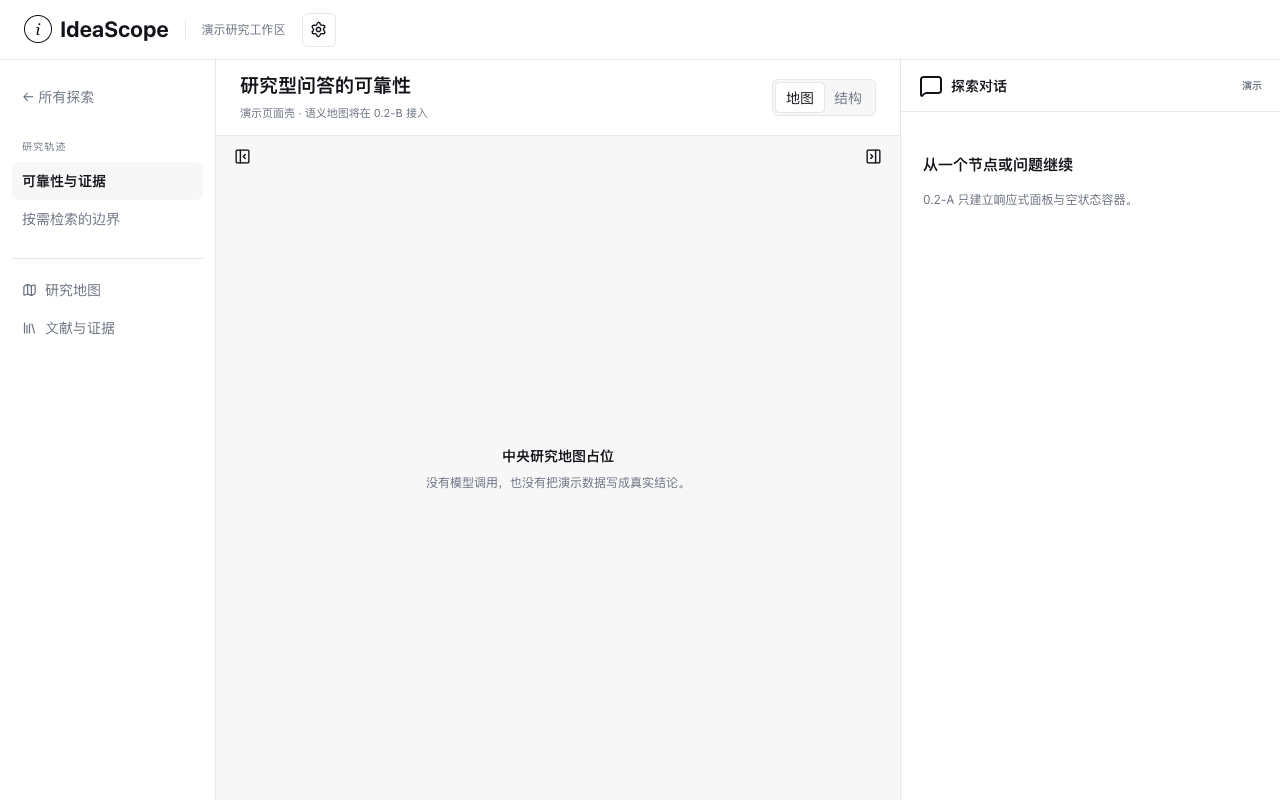
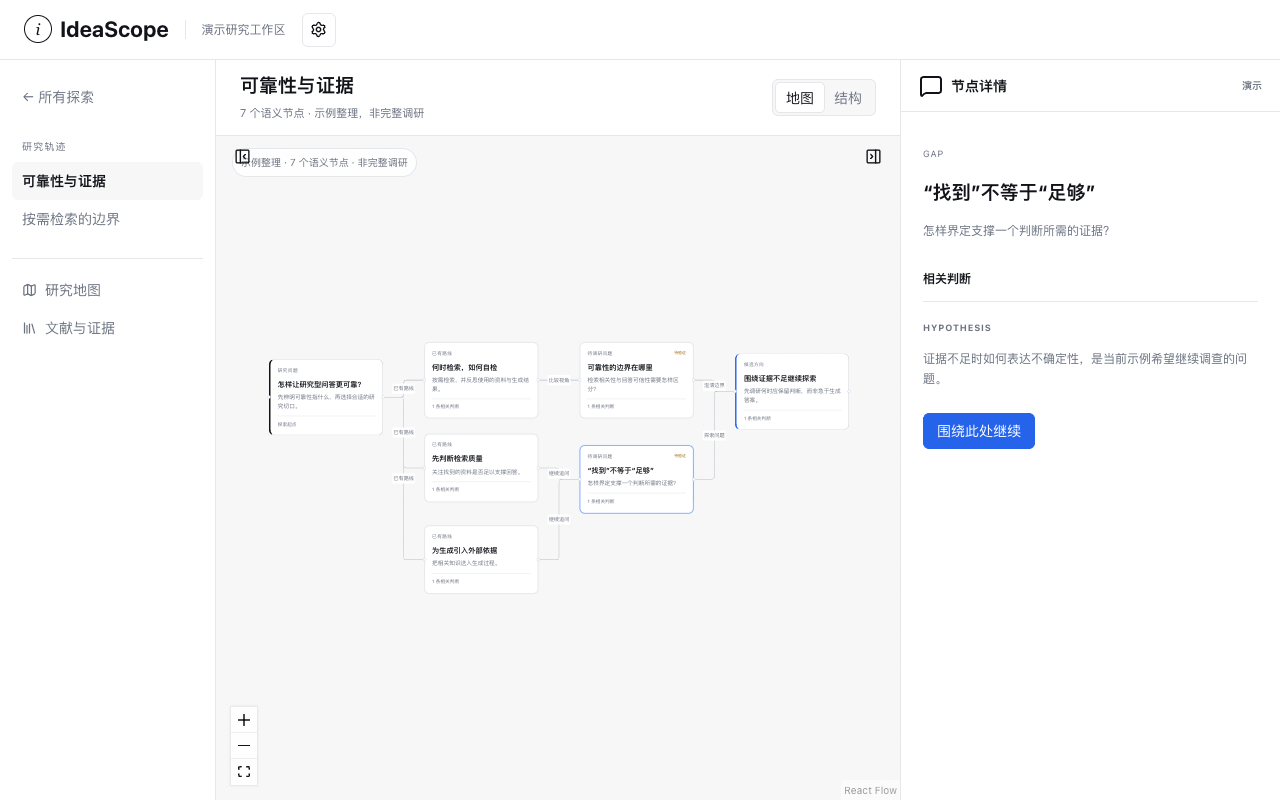
feat: implement v0.2.0-B semantic research map

diff --git a/src/pages/WorkspacePage.tsx b/src/pages/WorkspacePage.tsx
@@ -1,7 +1,30 @@
 import { Library, Map, MessageSquare, PanelLeftClose, PanelRightClose } from 'lucide-react';
-import { useState } from 'react';
+import { useMemo, useState } from 'react';
 import { Link } from 'react-router-dom';
+import type { GraphNode } from '../../contracts/domain';
+import { ResearchMap } from '../features/graph/ResearchMap';
+import { loadDemoWorkspace } from '../infrastructure/demo/workspace-demo';
 import { AppHeader } from '../shared/ui/AppHeader';
 import { Button, Tabs } from '../shared/ui';
 import styles from './WorkspacePage.module.css';
-export function WorkspacePage(){const[left,setLeft]=useState(true),[right,setRight]=useState(true),[view,setView]=useState('map');return <div className={styles.page}><AppHeader context="演示研究工作区"/><main className={`${styles.workspace} ${!left?styles.noLeft:''} ${!right?styles.noRight:''}`}><aside className={styles.left}><Link to="/">← 所有探索</Link><p>研究轨迹</p><button className={styles.active}>可靠性与证据</button><button>按需检索的边界</button><nav><button><Map/>研究地图</button><button><Library/>文献与证据</button></nav></aside><section className={styles.center}><header><div><h1>研究型问答的可靠性</h1><p>演示页面壳 · 语义地图将在 0.2-B 接入</p></div><Tabs label="中央视图" value={view} onChange={setView} items={[{id:'map',label:'地图'},{id:'list',label:'结构'}]}/></header><div className={styles.canvas}><strong>中央研究{view==='map'?'地图':'结构列表'}占位</strong><span>没有模型调用，也没有把演示数据写成真实结论。</span></div></section><aside className={styles.right}><header><MessageSquare/>探索对话 <span>演示</span></header><div><h2>从一个节点或问题继续</h2><p>0.2-A 只建立响应式面板与空状态容器。</p></div></aside><Button className={styles.lt} variant="ghost" aria-label="折叠左侧面板" onClick={()=>setLeft(!left)}><PanelLeftClose size={17}/></Button><Button className={styles.rt} variant="ghost" aria-label="折叠右侧面板" onClick={()=>setRight(!right)}><PanelRightClose size={17}/></Button></main></div>}
+
+export function WorkspacePage() {
+  const workspace = useMemo(() => loadDemoWorkspace(), []);
+  const [branchId, setBranchId] = useState(workspace.workspace.activeBranchId);
+  const [selectedId, setSelectedId] = useState<string | null>('g-sufficient');
+  const [left, setLeft] = useState(true);
+  const [right, setRight] = useState(true);
+  const [view, setView] = useState('map');
+  const branch = workspace.workspace.branches.find(item => item.id === branchId) ?? workspace.workspace.branches[0];
+  if (!branch) throw new Error('Demo workspace has no branch.');
+  const selected = branch.graph.nodes.find(node => node.id === selectedId) ?? null;
+  const claims = selected?.claimIds.map(id => branch.graph.claims.find(claim => claim.id === id)).filter(item => item !== undefined) ?? [];
+  function selectNode(node: GraphNode) { setSelectedId(node.id); setRight(true); }
+  function selectBranch(id: string) { setBranchId(id); const next = workspace.workspace.branches.find(item => item.id === id); setSelectedId(next?.focusNodeId ?? next?.graph.nodes[0]?.id ?? null); }
+  return <div className={styles.page}><AppHeader context="演示研究工作区"/><main className={`${styles.workspace} ${!left?styles.noLeft:''} ${!right?styles.noRight:''}`}>
+    <aside className={styles.left}><Link to="/">← 所有探索</Link><p>研究轨迹</p>{workspace.workspace.branches.map(item=><button key={item.id} className={item.id===branch.id?styles.active:''} onClick={()=>selectBranch(item.id)}>{item.title}</button>)}<nav><button><Map/>研究地图</button><button><Library/>文献与证据</button></nav></aside>
+    <section className={styles.center}><header><div><h1>{branch.title}</h1><p>{branch.graph.nodes.length} 个语义节点 · 示例整理，非完整调研</p></div><Tabs label="中央视图" value={view} onChange={setView} items={[{id:'map',label:'地图'},{id:'list',label:'结构'}]}/></header><div className={styles.canvas}>{view==='map'?<ResearchMap branch={branch} selectedId={selectedId} onSelect={selectNode}/>:<div className={styles.list}>{branch.graph.nodes.map(node=><button key={node.id} className={node.id===selectedId?styles.listSelected:''} onClick={()=>selectNode(node)}><span>{node.kind}</span><strong>{node.title}</strong><p>{node.summary}</p></button>)}</div>}</div></section>
+    <aside className={styles.right}><header><MessageSquare/>节点详情 <span>演示</span></header><div>{selected?<><small className={styles.kind}>{selected.kind}</small><h2>{selected.title}</h2><p>{selected.summary}</p><h3>相关判断</h3>{claims.length?claims.map(claim=><article key={claim.id}><b>{claim.epistemicStatus}</b><p>{claim.text}</p></article>):<p>这是研究问题，不是已经被文献证明的事实。</p>}<Button variant="primary">围绕此处继续</Button></>:<><h2>选择一个节点</h2><p>查看含义、判断与证据范围。</p></>}</div></aside>
+    <Button className={styles.lt} variant="ghost" aria-label="折叠左侧面板" onClick={()=>setLeft(!left)}><PanelLeftClose size={17}/></Button><Button className={styles.rt} variant="ghost" aria-label="折叠右侧面板" onClick={()=>setRight(!right)}><PanelRightClose size={17}/></Button>
+  </main></div>;
+}

diff --git a/src/pages/WorkspacePage.module.css b/src/pages/WorkspacePage.module.css
@@ -1,1 +1,1 @@
-.page{height:100vh;overflow:hidden}.workspace{height:calc(100vh - 60px);display:grid;grid-template-columns:216px minmax(0,1fr) 380px;position:relative}.left,.right{background:var(--surface);overflow:auto}.left{padding:18px 12px;border-right:1px solid var(--line)}.left a,.left button{width:100%;height:38px;padding:0 10px;border:0;border-radius:var(--radius-sm);display:flex;align-items:center;gap:8px;background:transparent;color:var(--muted);text-decoration:none;text-align:left}.left p{margin:22px 10px 7px;color:var(--muted);font-size:10px;letter-spacing:.12em}.left .active{background:var(--surface-subtle);color:var(--ink);font-weight:650}.left nav{margin-top:20px;padding-top:12px;border-top:1px solid var(--line)}.left svg{width:15px}.center{min-width:0;background:var(--surface-subtle)}.center>header{height:76px;padding:0 24px;border-bottom:1px solid var(--line);display:flex;align-items:center;justify-content:space-between;background:var(--surface)}.center h1{margin:0;font-size:19px}.center header p{margin:3px 0;color:var(--muted);font-size:11px}.canvas{height:calc(100% - 76px);display:grid;place-content:center;gap:6px;text-align:center;background-image:radial-gradient(var(--line) .7px,transparent .7px);background-size:20px 20px}.canvas span{color:var(--muted);font-size:12px}.right{border-left:1px solid var(--line)}.right>header{height:52px;padding:0 18px;border-bottom:1px solid var(--line);display:flex;align-items:center;gap:8px;font-weight:650}.right header span{margin-left:auto;color:var(--muted);font-size:10px}.right>div{padding:28px 22px}.right h2{font-size:15px}.right p{color:var(--muted);font-size:12px}.lt,.rt{position:absolute;z-index:5;top:82px}.lt{left:220px}.rt{right:384px}.noLeft{grid-template-columns:56px minmax(0,1fr) 380px}.noLeft .left>*{visibility:hidden}.noLeft .lt{left:60px}.noRight{grid-template-columns:216px minmax(0,1fr) 0}.noRight .right{display:none}.noRight .rt{right:4px}.noLeft.noRight{grid-template-columns:56px minmax(0,1fr) 0}@media(max-width:1199px){.workspace{grid-template-columns:56px minmax(0,1fr) 340px}.left>*{visibility:hidden}.lt{left:60px}.rt{right:344px}}@media(max-width:899px){.workspace{grid-template-columns:56px minmax(0,1fr)}.right{display:none}.rt{right:4px}}
+.page{height:100vh;overflow:hidden}.workspace{height:calc(100vh - 60px);display:grid;grid-template-columns:216px minmax(0,1fr) 380px;position:relative}.left,.right{background:var(--surface);overflow:auto}.left{padding:18px 12px;border-right:1px solid var(--line)}.left a,.left button{width:100%;height:38px;padding:0 10px;border:0;border-radius:var(--radius-sm);display:flex;align-items:center;gap:8px;background:transparent;color:var(--muted);text-decoration:none;text-align:left}.left p{margin:22px 10px 7px;color:var(--muted);font-size:10px;letter-spacing:.12em}.left .active{background:var(--surface-subtle);color:var(--ink);font-weight:650}.left nav{margin-top:20px;padding-top:12px;border-top:1px solid var(--line)}.left svg{width:15px}.center{min-width:0;background:var(--surface-subtle)}.center>header{height:76px;padding:0 24px;border-bottom:1px solid var(--line);display:flex;align-items:center;justify-content:space-between;background:var(--surface)}.center h1{margin:0;font-size:19px}.center header p{margin:3px 0;color:var(--muted);font-size:11px}.canvas{height:calc(100% - 76px);min-height:0}.right{border-left:1px solid var(--line)}.right>header{height:52px;padding:0 18px;border-bottom:1px solid var(--line);display:flex;align-items:center;gap:8px;font-weight:650}.right header span{margin-left:auto;color:var(--muted);font-size:10px}.right>div{padding:28px 22px}.right h2{font-size:19px;line-height:1.4}.right h3{margin-top:28px;font-size:12px}.right p{color:var(--muted);font-size:12px}.right article{padding:12px 0;border-top:1px solid var(--line)}.right article b,.kind{color:var(--muted);font-size:9px;text-transform:uppercase;letter-spacing:.08em}.list{height:100%;padding:32px;overflow:auto}.list button{width:100%;padding:16px;border:0;border-bottom:1px solid var(--line);display:grid;grid-template-columns:100px 220px 1fr;gap:16px;text-align:left;background:transparent;color:var(--ink)}.list button:hover{background:#fff}.list span{color:var(--muted);font-size:10px;text-transform:uppercase}.list p{margin:0;color:var(--muted);font-size:11px}.listSelected{box-shadow:inset 3px 0 var(--accent);background:#fff!important}.lt,.rt{position:absolute;z-index:8;top:82px}.lt{left:220px}.rt{right:384px}.noLeft{grid-template-columns:56px minmax(0,1fr) 380px}.noLeft .left>*{visibility:hidden}.noLeft .lt{left:60px}.noRight{grid-template-columns:216px minmax(0,1fr) 0}.noRight .right{display:none}.noRight .rt{right:4px}.noLeft.noRight{grid-template-columns:56px minmax(0,1fr) 0}@media(max-width:1199px){.workspace{grid-template-columns:56px minmax(0,1fr) 340px}.left>*{visibility:hidden}.lt{left:60px}.rt{right:344px}}@media(max-width:899px){.workspace{grid-template-columns:56px minmax(0,1fr)}.right{display:none}.rt{right:4px}.list button{grid-template-columns:1fr}.center>header{padding:0 14px}}

diff --git a/tests/e2e/static-preview.spec.ts b/tests/e2e/static-preview.spec.ts
@@ -15,11 +15,20 @@ test('does not enable paid provider probes without model and key', async ({ page
   await expect(page.getByRole('button', { name: /结构化输出/ })).toBeDisabled();
 });
 
+test('selects a semantic node and mirrors it in details and list views', async ({ page }) => {
+  await page.goto('/ideascope/#/workspace/demo');
+  await page.getByText('何时检索，如何自检', { exact: true }).click();
+  await expect(page.getByRole('heading', { name: '何时检索，如何自检' }).last()).toBeVisible();
+  await page.getByRole('tab', { name: '结构' }).click();
+  await expect(page.getByRole('button', { name: /何时检索，如何自检/ })).toBeVisible();
+});
+
 for (const viewport of [{ width: 1600, height: 1000 }, { width: 1440, height: 900 }, { width: 1280, height: 800 }]) {
   test(`workspace shell has no horizontal overflow at ${viewport.width}x${viewport.height}`, async ({ page }) => {
     await page.setViewportSize(viewport);
     await page.goto('/ideascope/#/workspace/demo');
-    await expect(page.getByRole('heading', { name: '研究型问答的可靠性' })).toBeVisible();
+    await expect(page.getByRole('heading', { name: '可靠性与证据' })).toBeVisible();
+    await expect(page.getByText('怎样让研究型问答更可靠？')).toBeVisible();
     const dimensions = await page.evaluate(() => ({ width: document.documentElement.clientWidth, scrollWidth: document.documentElement.scrollWidth }));
     expect(dimensions.scrollWidth).toBe(dimensions.width);
     await page.screenshot({ path: `reports/visual/workspace-${viewport.width}x${viewport.height}.png`, fullPage: true });

diff --git a/src/features/graph/ResearchMap.tsx b/src/features/graph/ResearchMap.tsx
@@ -1,0 +1,8 @@
+import { Background, Controls, ReactFlow, type Edge, type Node } from '@xyflow/react';
+import '@xyflow/react/dist/style.css';
+import { useEffect, useMemo, useState } from 'react';
+import type { Branch, GraphNode } from '../../../contracts/domain';
+import { ResearchNode } from './ResearchNode';
+import styles from './ResearchMap.module.css';
+const nodeTypes={research:ResearchNode};
+export function ResearchMap({branch,selectedId,onSelect}:{branch:Branch;selectedId:string|null;onSelect:(node:GraphNode)=>void}){const[nodes,setNodes]=useState<Node[]>([]);const edges=useMemo<Edge[]>(()=>branch.graph.edges.map(edge=>({id:edge.id,source:edge.source,target:edge.target,label:edge.label,type:'smoothstep',style:{stroke:'#b9bdc5'},labelStyle:{fontSize:10,fill:'#6b7280'}})),[branch]);useEffect(()=>{let active=true;void import('./layout').then(({layoutGraph})=>layoutGraph(branch.graph.nodes,branch.graph.edges)).then(positions=>{if(active)setNodes(branch.graph.nodes.map(node=>({id:node.id,type:'research',position:positions.get(node.id)??{x:0,y:0},data:{node},selected:node.id===selectedId}))) });return()=>{active=false}},[branch,selectedId]);return <div className={styles.map}><div className={styles.notice}>示例整理 · 7 个语义节点 · 非完整调研</div><ReactFlow nodes={nodes} edges={edges} nodeTypes={nodeTypes} fitView fitViewOptions={{padding:.18}} minZoom={.45} maxZoom={1.4} nodesDraggable={false} onNodeClick={(_,item)=>onSelect(item.data.node as GraphNode)}><Background color="#d7d9dd" gap={20} size={.7}/><Controls showInteractive={false}/></ReactFlow></div>}

diff --git a/src/features/graph/ResearchMap.module.css b/src/features/graph/ResearchMap.module.css
@@ -1,0 +1,1 @@
+.map{height:100%;position:relative}.notice{position:absolute;z-index:4;top:12px;left:16px;padding:5px 8px;border:1px solid var(--line);border-radius:99px;background:#ffffffeb;color:var(--muted);font-size:10px}.node{width:220px;min-height:132px;padding:13px 14px;border:1px solid var(--line-strong);border-radius:var(--radius-md);background:var(--surface);text-align:left;box-shadow:none}.node>div{display:flex;justify-content:space-between;color:var(--muted);font-size:9px;letter-spacing:.08em}.node small{color:var(--warning);letter-spacing:0}.node h3{margin:10px 0 6px;font-size:14px;line-height:1.35}.node p{margin:0;color:var(--muted);font-size:11px;line-height:1.55}.node footer{margin-top:11px;padding-top:8px;border-top:1px solid var(--line);color:var(--muted);font-size:9px}.question{border-left:3px solid var(--ink)}.direction{border-left:3px solid var(--accent)}.selected{border-color:var(--accent);box-shadow:0 0 0 2px var(--accent-soft)}.node :global(.react-flow__handle){width:6px;height:6px;border:1px solid var(--line-strong);background:#fff}

diff --git a/tests/unit/graph-layout.test.ts b/tests/unit/graph-layout.test.ts
@@ -1,0 +1,24 @@
+import { describe, expect, it } from 'vitest';
+import { layoutGraph } from '../../src/features/graph/layout';
+import { loadDemoWorkspace } from '../../src/infrastructure/demo/workspace-demo';
+
+describe('demo graph adapter and ELK layout', () => {
+  it('returns isolated demo copies', () => {
+    const first = loadDemoWorkspace();
+    const second = loadDemoWorkspace();
+    first.workspace.title = 'changed';
+    expect(second.workspace.title).not.toBe('changed');
+    expect(second.isDemo).toBe(true);
+  });
+
+  it('lays out every semantic node at a finite position', async () => {
+    const branch = loadDemoWorkspace().workspace.branches[0];
+    if (!branch) throw new Error('Fixture has no branch');
+    const positions = await layoutGraph(branch.graph.nodes, branch.graph.edges);
+    expect(positions.size).toBe(branch.graph.nodes.length);
+    for (const position of positions.values()) {
+      expect(Number.isFinite(position.x)).toBe(true);
+      expect(Number.isFinite(position.y)).toBe(true);
+    }
+  });
+});

diff --git a/src/features/graph/ResearchNode.tsx b/src/features/graph/ResearchNode.tsx
@@ -1,0 +1,5 @@
+import { Handle, Position, type NodeProps } from '@xyflow/react';
+import type { GraphNode } from '../../../contracts/domain';
+import styles from './ResearchMap.module.css';
+const labels: Record<GraphNode['kind'], string> = { question:'研究问题',concept:'概念',approach:'已有路线',finding:'研究判断',debate:'争议',gap:'待调研问题',direction:'候选方向' };
+export function ResearchNode({data,selected}:NodeProps){const node=data.node as GraphNode;return <article className={`${styles.node} ${styles[node.kind]} ${selected?styles.selected:''}`}><Handle type="target" position={Position.Left}/><div><span>{labels[node.kind]}</span>{node.kind==='gap'&&<small>待验证</small>}</div><h3>{node.title}</h3><p>{node.summary}</p><footer>{node.claimIds.length?`${node.claimIds.length} 条相关判断`:'探索起点'}</footer><Handle type="source" position={Position.Right}/></article>}

diff --git a/src/features/graph/layout.ts b/src/features/graph/layout.ts
@@ -1,0 +1,8 @@
+import ELK from 'elkjs/lib/elk.bundled.js';
+import type { GraphEdge, GraphNode } from '../../../contracts/domain';
+
+const elk = new ELK();
+export async function layoutGraph(nodes: GraphNode[], edges: GraphEdge[]) {
+  const graph = await elk.layout({ id: 'root', layoutOptions: { 'elk.algorithm': 'layered', 'elk.direction': 'RIGHT', 'elk.spacing.nodeNode': '45', 'elk.layered.spacing.nodeNodeBetweenLayers': '80' }, children: nodes.map(node => ({ id: node.id, width: 220, height: 132 })), edges: edges.map(edge => ({ id: edge.id, sources: [edge.source], targets: [edge.target] })) });
+  return new Map(graph.children?.map(node => [node.id, { x: node.x ?? 0, y: node.y ?? 0 }]) ?? []);
+}

diff --git a/src/infrastructure/demo/workspace-demo.ts b/src/infrastructure/demo/workspace-demo.ts
@@ -1,0 +1,7 @@
+import type { WorkspaceExport } from '../../../contracts/domain';
+import workspaceJson from '../../../examples/workspace.demo.json';
+
+const fixture = workspaceJson as WorkspaceExport;
+export function loadDemoWorkspace(): WorkspaceExport {
+  return structuredClone(fixture);
+}

diff --git a/docs/PROGRESS.md b/docs/PROGRESS.md
@@ -9,6 +9,7 @@
 | v0.1.0-B | 待验收 | 探针与错误分类已实现；OpenAlex localhost 浏览器通过；真实 Provider/Pages origin 待凭证与部署验证 |
 | v0.1.0-C | 本地完成 | Hash 路由、Pages 子路径 production preview、CI/e2e 与手动部署 workflow 已验证；真实 Pages 待执行 |
 | v0.2.0-A | 已完成 | 首页、三栏工作台、设置页、基础组件、折叠/响应式与三档截图 |
+| v0.2.0-B | 已完成 | demo adapter、React Flow 语义节点、ELK 分层布局、列表视图与详情同步 |
 | 其余版本 | 计划中 | 按路线逐阶段执行 |
 
 ## 每阶段记录模板
@@ -153,3 +154,31 @@
 风险与决策：0.2-A 的中央画布刻意为空，不将原型示例冒充业务接入；点阵仅使用中性灰。v0.1 的真实 Provider 与 Pages 门禁仍保持待验证。
 
 下一阶段入口：v0.2.0-B，使用 demo adapter 读取现有示例数据，引入 React Flow 自定义语义节点、ELK 初始布局、关系列表替代视图与节点/右栏双向选择。
+
+## v0.2.0-B 阶段记录
+
+阶段 ID：v0.2.0-B
+
+实施日期 / commit：2026-09-10 / 见本阶段 Git 提交
+
+范围：React Flow 自定义语义节点、关系标签、缩放/适应画布、ELK 初始分层布局、结构列表、分支切换、节点与右栏详情同步；不实现真实模型或研究数据写入。
+
+实际修改文件：`src/features/graph/*`、`src/infrastructure/demo/workspace-demo.ts`、`src/pages/WorkspacePage.*`、图布局单测、e2e 与三档视觉截图。
+
+已完成：
+
+- 示例数据只通过 demo adapter 读取并以 `structuredClone` 隔离，不在组件中另造一套研究结果。
+- 图节点投影 question/approach/gap/direction 等语义实体，Paper 保持证据实体而非画布节点。
+- ELK 使用固定 RIGHT layered 布局，无力导向动画；React Flow 负责选择、缩放和 fit view。
+- 所有节点统一白底灰边；question 黑色左线、direction 蓝色左线、selected 蓝色细框，gap 仅用小面积待验证标签。
+- 地图点击与结构列表点击均同步右栏详情；分支切换保持各分支焦点。
+
+测试命令与结果：`npm run check` 通过；5 个 unit/contract 文件共 17 项测试、6 项 Playwright e2e 通过，包含 demo 深拷贝、ELK 坐标、节点/详情/列表联动和三档无横向溢出检查。构建成功；主入口 475.08 kB（gzip 152.20 kB），ELK 动态 chunk 1,431.53 kB（gzip 442.30 kB）。
+
+人工验收与截图：重新生成并检查 `reports/visual/workspace-{1600x1000,1440x900,1280x800}.png`，等待 ELK 节点真实出现后再截图。1440×900 下 7 个节点、8 条关系、右栏所选 gap 判断均可见，标签未裁切，无横向溢出。
+
+未完成 / 待实测：来源面板的 Paper/Evidence 展开、移动端右栏抽屉、关键加载/失败/取消/待应用状态、方向卡与导出弹窗留待 0.2-C。ELK bundle 虽已从主入口动态拆分，仍超过 500 kB warning；首次引入 Worker 时继续评估传输与缓存，不调高阈值掩盖警告。
+
+风险与决策：图渲染状态不作为业务数据源；React Flow nodes/edges 每次由 Branch GraphModel 投影。所有示例研究判断继续显示“示例整理、非完整调研”。
+
+下一阶段入口：v0.2.0-C，补齐关键演示状态、来源面板、方向卡、导出弹窗、移动端视图切换与完整 Dialog focus trap，并冻结视觉尺寸基准。
